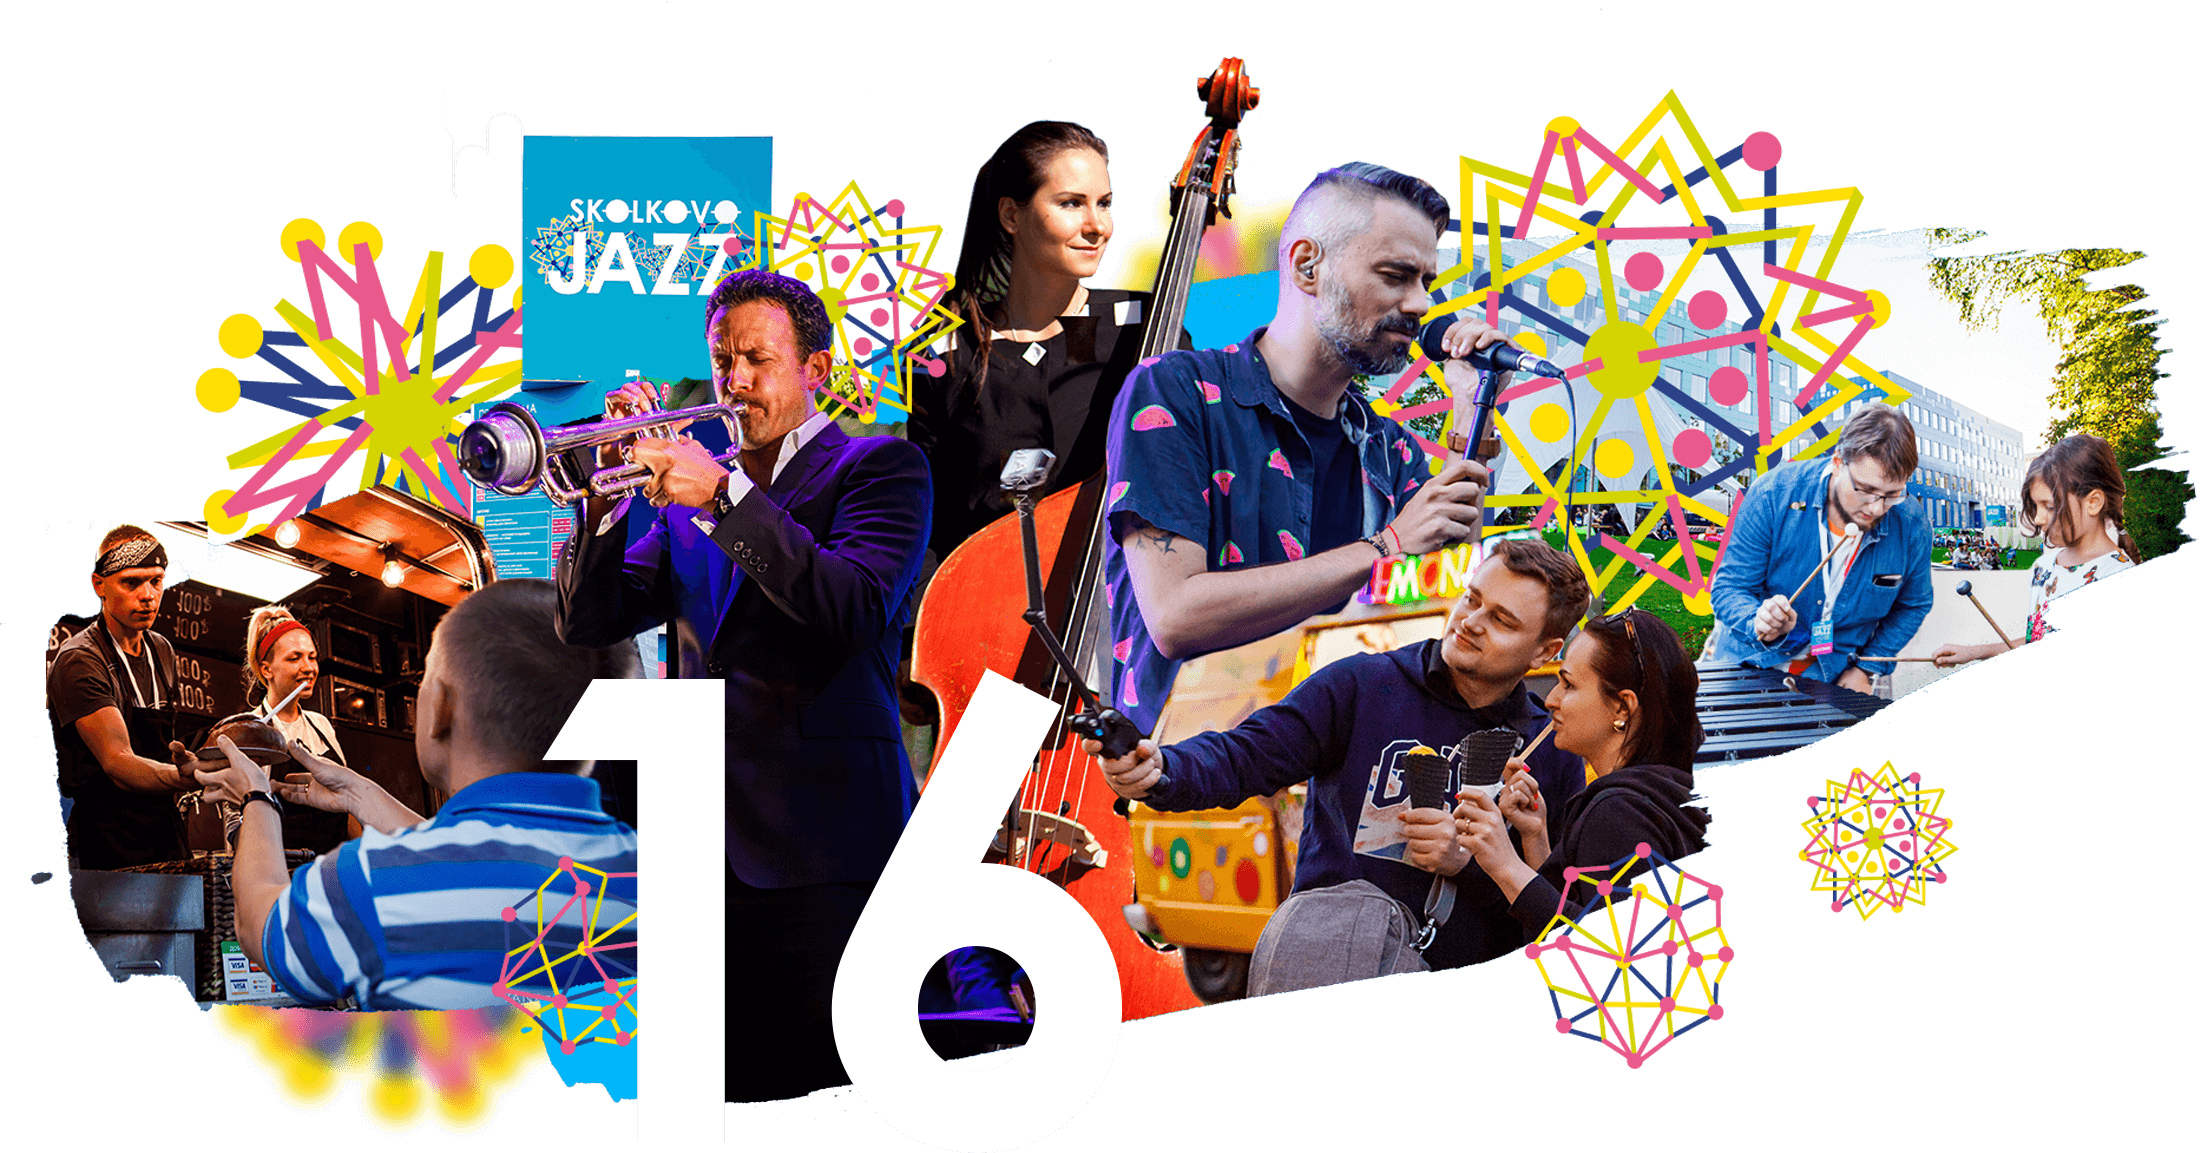
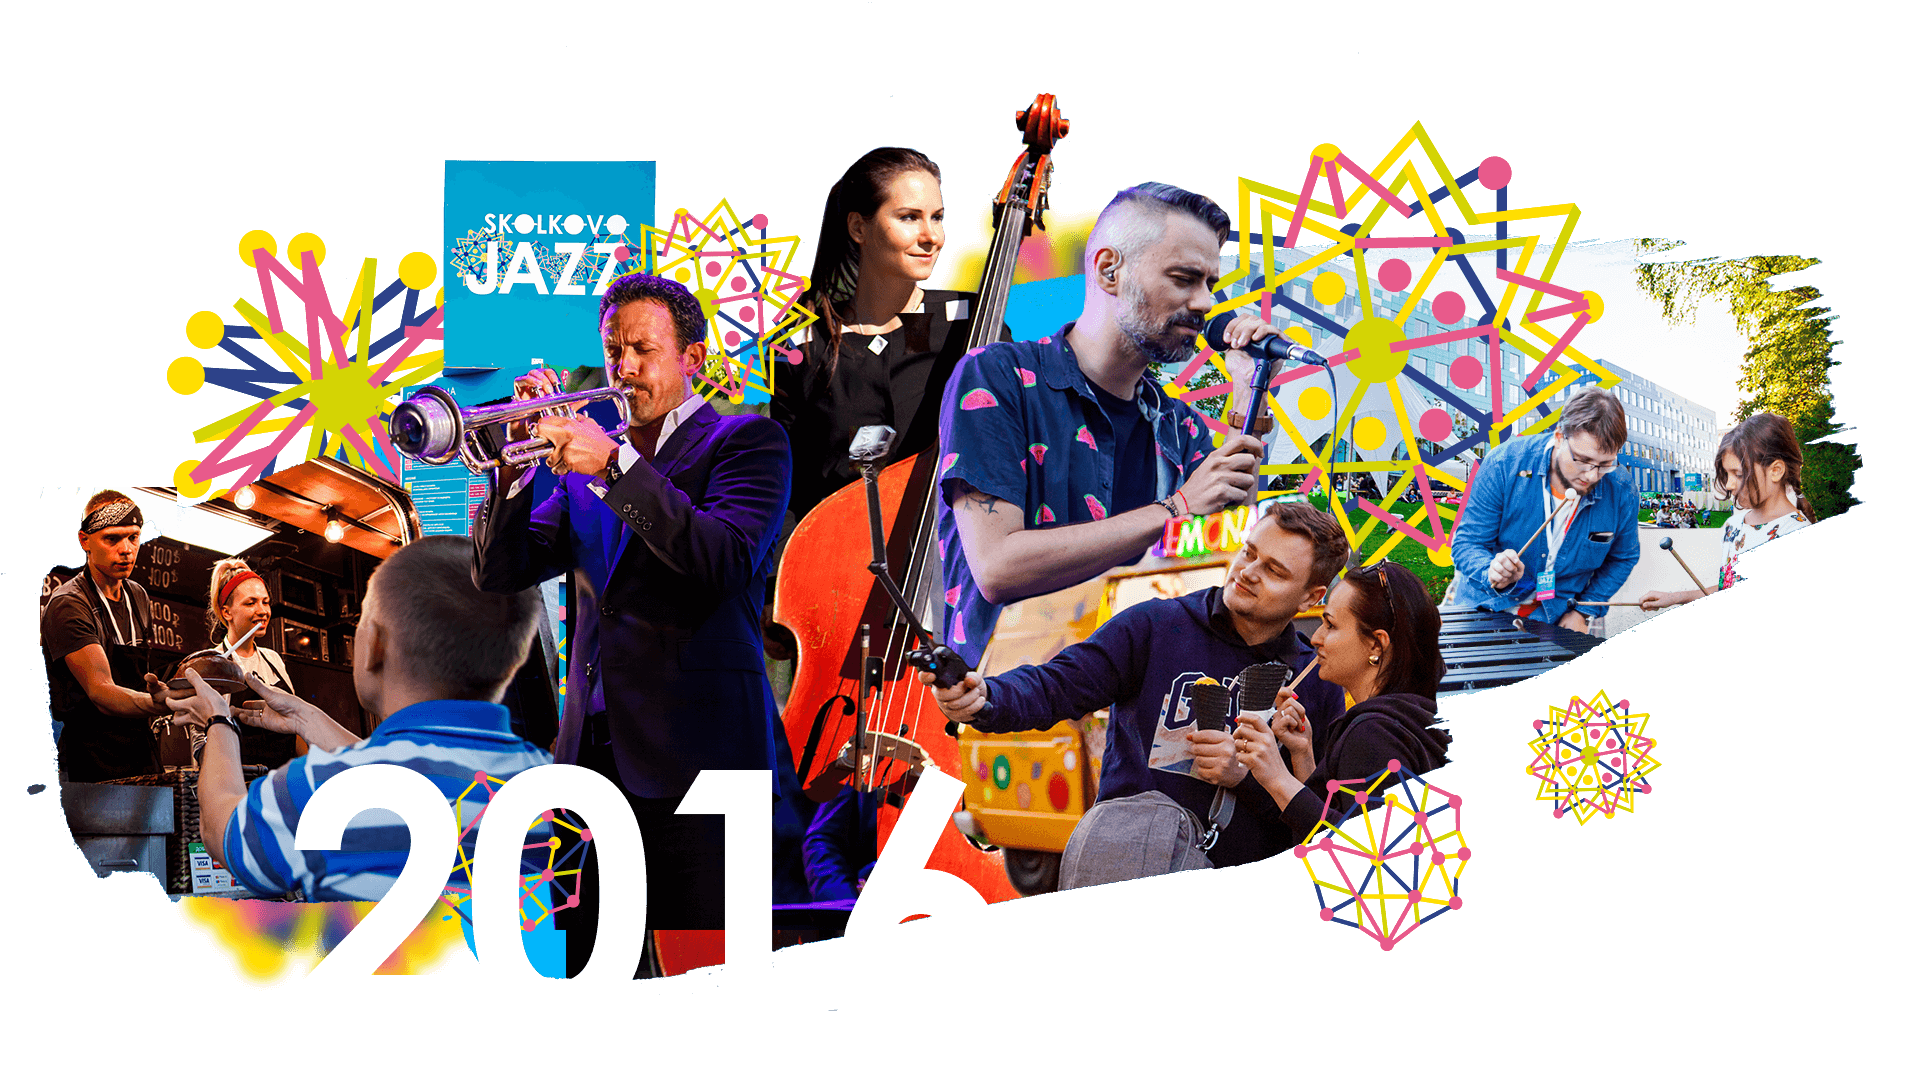
fix artists, add coll to action buttons

diff --git a/src/App.vue b/src/App.vue
@@ -6,6 +6,9 @@
         header.mobile-header(v-if="isMobile", v-cloak="")
           a.mobile-logo(href="/")
             img.mobile-logo__img(src="static/img/logo.png")
+          .info
+            .info__date 25 августа
+            .info__place Москва | Сколково
           button.hamburger.hamburger--emphatic(
             :class="{'is-active' : isMenuOpen}",
             type="button",
@@ -15,9 +18,6 @@
               span.hamburger-inner
         transition(name="slide")
           aside#left-menu.panel(v-if="isMobile && isMenuOpen", v-cloak="")
-            .info
-              .info__date 25 августа
-              .info__place Москва | Сколково
             nav.nav
               ul.nav__list
                 a.nav__link(href="#howitwas") Как это было
@@ -43,7 +43,7 @@
               ) Купить Билеты
           .info
             .info__date 25 августа
-            .info__place Москва | Сколково
+            .info__place Москва | ИЦ Сколково
         .content
           .content__small
             | это непередаваемая
@@ -55,7 +55,7 @@
           .content__primary
             | место, где наука
             br
-            |  и музыка соединяются, —
+            |  и музыка соединяются,
             br
             |  превращаясь в магию
           .content-aside
@@ -141,7 +141,7 @@
                     .collage__block
                       .collage__text
                         .collage__text--primary 12
-                        .collage__text--default приглашенных артистов
+                        .collage__text--default артистов
                         .collage__text--secondary Российские и мировые имена
               .col.col-xs-6
                 .ratio
@@ -240,7 +240,7 @@
                     .collage__block
                       .collage__text
                         .collage__text--primary 10
-                        .collage__text--default приглашенных артистов
+                        .collage__text--default артистов
                         .collage__text--secondary Российские и мировые имена
               .col.col-xs-6
                 .ratio
@@ -291,15 +291,29 @@
                   .ratio__content
                     .collage__block
                       preview(:source="gallery.image_2017_11", @open="openGallery")
+        .call-to-action
+          a.button.button--primary(
+            target="_blank",
+            href="https://msk.kassir.ru/frame/event/104230?key=d68c4b88-00fb-ee51-8fdd-fec9d1c99539"
+          ) Купить Билеты
     section#artists.artists
       .container
-        h2.artists__heading.heading Приглашенные артисты
+        h2.artists__heading.heading Артисты
         Years(:currentYear="currentYear", :isContrast="true", @set="setYear")
         .row
           .col.col-xs-12.col-sm-6.col-lg-3(v-for="artist in content[currentYear].artists")
             .artists__block
-              img.artists__img(:src="artist.src", :alt="artist.name")
+              img.artists__img(
+                :src="artist.src",
+                :alt="artist.name",
+                :title="artist.alreadyPerformed ? 'Уже выступил' : null",
+                :class="{'artists__img--muted' : artist.alreadyPerformed}")
               .artists__name {{artist.name}}
+        .call-to-action
+          a.button.button--contrast(
+            target="_blank",
+            href="https://msk.kassir.ru/frame/event/104230?key=d68c4b88-00fb-ee51-8fdd-fec9d1c99539"
+          ) Купить Билеты
     section#program.program
       .container
         h2.heading Программа
@@ -338,6 +352,11 @@
               | головоломками. Для всех гостей на&nbsp;территории фестиваля были организованы
               | Книжная ярмарка и&nbsp;Винил-маркет, а&nbsp;также фестиваль фудтраков, дополненный
               | изысканным выездным рестораном от&nbsp;OsteriaMario.
+      .call-to-action
+        a.button.button--primary(
+          target="_blank",
+          href="https://msk.kassir.ru/frame/event/104230?key=d68c4b88-00fb-ee51-8fdd-fec9d1c99539"
+        ) Купить Билеты
     section#partners.partners
       .container
         h2.heading Партнеры
@@ -489,35 +508,36 @@ export default {
         year2017: {
           title: '2017',
           artists: [
-            { src: 'static/img/marimba.png', name: 'Маримба+' },
-            { src: 'static/img/scristian.png', name: 'Cristian Sans Trio' },
+            { src: 'static/img/marimba.png', name: 'Маримба+', alreadyPerformed: true },
+            { src: 'static/img/scristian.png', name: 'Christian Sands Trio', alreadyPerformed: true },
             { src: 'static/img/dummy-1.png', name: '' },
-            { src: 'static/img/musicaviva.png', name: 'Московский камерный оркестр Musicviva и Юрий Фаворин' },
+            { src: 'static/img/musicaviva.png', name: 'Московский камерный оркестр Musicviva и Юрий Фаворин', alreadyPerformed: true },
             { src: 'static/img/dummy-2.png', name: '' },
-            { src: 'static/img/butman.png', name: 'Московский джазовый оркестр под управлением Игоря Бутмана' },
-            { src: 'static/img/jukebox.png', name: 'Jukebox' },
-            { src: 'static/img/pii.png', name: 'Число Пи' },
-            { src: 'static/img/anton-g.png', name: 'Антон Маскелиаде' },
-            { src: 'static/img/azekel.png', name: 'Azekel' },
-            { src: 'static/img/jekka.png', name: 'Jekka' },
-            { src: 'static/img/blinder.png', name: 'Yana Blinder' },
+            { src: 'static/img/butman.png', name: 'Московский джазовый оркестр под управлением Игоря Бутмана', alreadyPerformed: true },
+            { src: 'static/img/jukebox.png', name: 'Jukebox', alreadyPerformed: true },
+            { src: 'static/img/pii.png', name: 'Число Пи', alreadyPerformed: true },
+            { src: 'static/img/anton-g.png', name: 'Антон Маскелиаде', alreadyPerformed: true },
+            { src: 'static/img/azekel.png', name: 'Azekel', alreadyPerformed: true },
+            { src: 'static/img/jekka.png', name: 'Jekka', alreadyPerformed: true },
+            { src: 'static/img/blinder.png', name: 'Yana Blinder', alreadyPerformed: true },
           ],
         },
         year2016: {
           title: '2016',
           artists: [
-            { src: 'static/img/ilya-i-azat.png', name: 'Группа Ильи Морозова и Азата Баязитова' },
-            { src: 'static/img/sergey-quintet.png', name: 'Квинтет Сергея Долженкова' },
-            { src: 'static/img/vsdims-group.png', name: 'Вадим Эйленкриг и его группа' },
-            { src: 'static/img/oleg-trio.png', name: 'Трио Олега Аккуратова' },
-            { src: 'static/img/till-quintet.png', name: 'Till Brönner Quintet' },
-            { src: 'static/img/igor-i-moscow-jazzband.png', name: 'Игорь Бутман и Московский джазовый оркестр' },
-            { src: 'static/img/july-afterjuly.png', name: 'July AfterJuly' },
-            { src: 'static/img/teslaboy.png', name: 'Группа TeslaBoy' },
-            { src: 'static/img/baronin-a.png', name: 'Антон Баронин' },
-            { src: 'static/img/toymintseva-a.png', name: 'Алена Тойминцева' },
-            { src: 'static/img/guru-groove.png', name: 'Guru Groove Foundation' },
-            { src: 'static/img/tony-momrelle-band.png', name: 'Tony Momrelle Band' }],
+            { src: 'static/img/ilya-i-azat.png', name: 'Группа Ильи Морозова и Азата Баязитова', alreadyPerformed: true },
+            { src: 'static/img/sergey-quintet.png', name: 'Квинтет Сергея Долженкова', alreadyPerformed: true },
+            { src: 'static/img/vsdims-group.png', name: 'Вадим Эйленкриг и его группа', alreadyPerformed: true },
+            { src: 'static/img/oleg-trio.png', name: 'Трио Олега Аккуратова', alreadyPerformed: true },
+            { src: 'static/img/till-quintet.png', name: 'Till Brönner Quintet', alreadyPerformed: true },
+            { src: 'static/img/igor-i-moscow-jazzband.png', name: 'Игорь Бутман и Московский джазовый оркестр', alreadyPerformed: true },
+            { src: 'static/img/july-afterjuly.png', name: 'July AfterJuly', alreadyPerformed: true },
+            { src: 'static/img/teslaboy.png', name: 'Группа TeslaBoy', alreadyPerformed: true },
+            { src: 'static/img/baronin-a.png', name: 'Антон Баронин', alreadyPerformed: true },
+            { src: 'static/img/toymintseva-a.png', name: 'Алена Тойминцева', alreadyPerformed: true },
+            { src: 'static/img/guru-groove.png', name: 'Guru Groove Foundation', alreadyPerformed: true },
+            { src: 'static/img/tony-momrelle-band.png', name: 'Tony Momrelle Band' , alreadyPerformed: true },
+          ],
         },
       },
     };

diff --git a/src/styles/main.scss b/src/styles/main.scss
@@ -132,15 +132,28 @@
   flex-flow: column;
   align-items: center;
   justify-content: center;
+
+  &__date {
+    font-size: 20px;
+  }
+  
+  &__place {
+    font-size: 12px;
+    padding-top: 2px;
+  }
 }
 
-.info__date {
-  font-size: 30px;
-}
-
-.info__place {
-  font-size: 16px;
-  padding-top: 10px;
+@media screen and (min-width: 1200px) {
+  .info { 
+    &__date {
+      font-size: 30px;
+    }
+    
+    &__place {
+      font-size: 16px;
+      padding-top: 10px;
+    }
+  }
 }
 
 .mobile-header {
@@ -152,6 +165,7 @@
   right: 0;
   box-sizing: border-box;
   z-index: 1000;
+  background: hsla(205, 75%, 48%, 0.6);
 }
 
 .mobile-logo {
@@ -168,12 +182,6 @@
   }
   .mobile-logo__img {
     width: 80px;
-  }
-}
-
-@media screen and (min-width: 922px) {
-  .mobile-header {
-    padding: 30px;
   }
 }
 
@@ -200,6 +208,40 @@
 @media screen and (min-width: 1200px) {
   .nav__list {
     flex-flow: row;
+  }
+}
+.call-to-action {
+  display: flex;
+  justify-content: center;
+  padding: 20px 0;
+}
+
+.button {
+  padding: 10px 25px;
+  text-decoration: none;
+  text-transform: uppercase;
+  font-size: 16px;
+  margin: 16px 5px;
+  font-weight: bold;
+  text-align: center;
+  
+  &--primary {
+    color: white;
+    background: #038ed2;
+  }
+
+  &--contrast {
+    color: #038ed2;
+    background: #ffde00;
+  }
+
+  &--primary:hover {
+    color: #038ed2;
+    background: #ffde00;
+  }
+
+  &--contrast:hover {
+    background: white;
   }
 }
 
@@ -538,50 +580,58 @@
   background-color: #038ed2;
   color: white;
   padding-bottom: 60px;
-}
 
-.artists__year {
-  color: white;
-}
+  &__year {
+    color: white;
+  }
 
-.artists__year--active {
-  font-weight: bold;
-}
+  &__year--active {
+    font-weight: bold;
+  }
 
-.artists__block {
-  padding: 30px;
-}
+  &__block {
+    padding: 30px;
+  }
 
-.artists__img {
-  width: 100%;
-}
+  &__img {
+    width: 100%;
 
-.artists__name {
-  font-size: 16px;
-  font-weight: bold;
-  text-align: center;
-  margin-top: 15px;
-  line-height: 1.2;
+    &--muted {
+      filter: grayscale(80%) brightness(0.5);
+    }
+
+    &--muted:hover {
+      transition: filter .3s linear;
+      filter: none;
+    }
+  }
+
+  &__name {
+    font-size: 16px;
+    font-weight: bold;
+    text-align: center;
+    margin-top: 15px;
+    line-height: 1.2;
+  }
 }
 
 .program {
-  padding-bottom: 50px;
-}
-
-.program__img {
-  width: 100%;
-}
-
-.program__text {
-  padding: 16px;
-  font-size: 18px;
-  line-height: 1.3;
-  font-family: Arial, Helvetica, sans-serif;
-
-  p {
-    text-indent: 2em;
+  &__img {
+    width: 100%;
+  }
+  
+  &__text {
+    padding: 16px;
+    font-size: 18px;
+    line-height: 1.3;
+    font-family: Arial, Helvetica, sans-serif;
+  
+    p {
+      text-indent: 2em;
+    }
   }
 }
+
 
 @media screen and (min-width: 768px) {
   .program__text {
@@ -592,7 +642,7 @@
 }
 
 .partners {
-  padding: 60px 0;
+  padding-bottom: 60px;
 }
 
 .popup {
